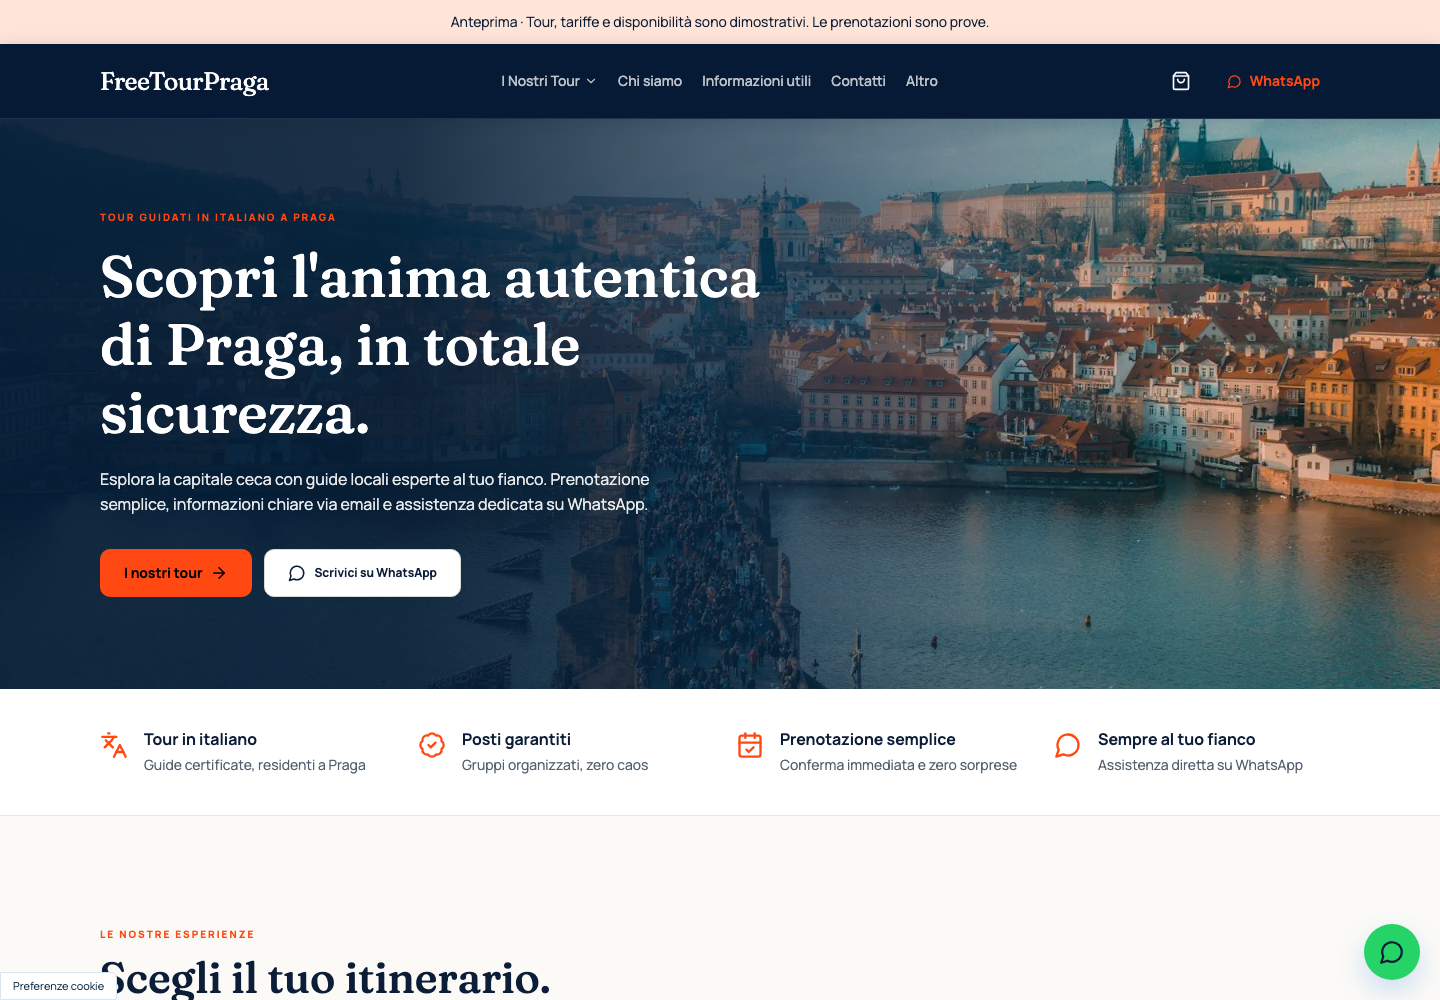
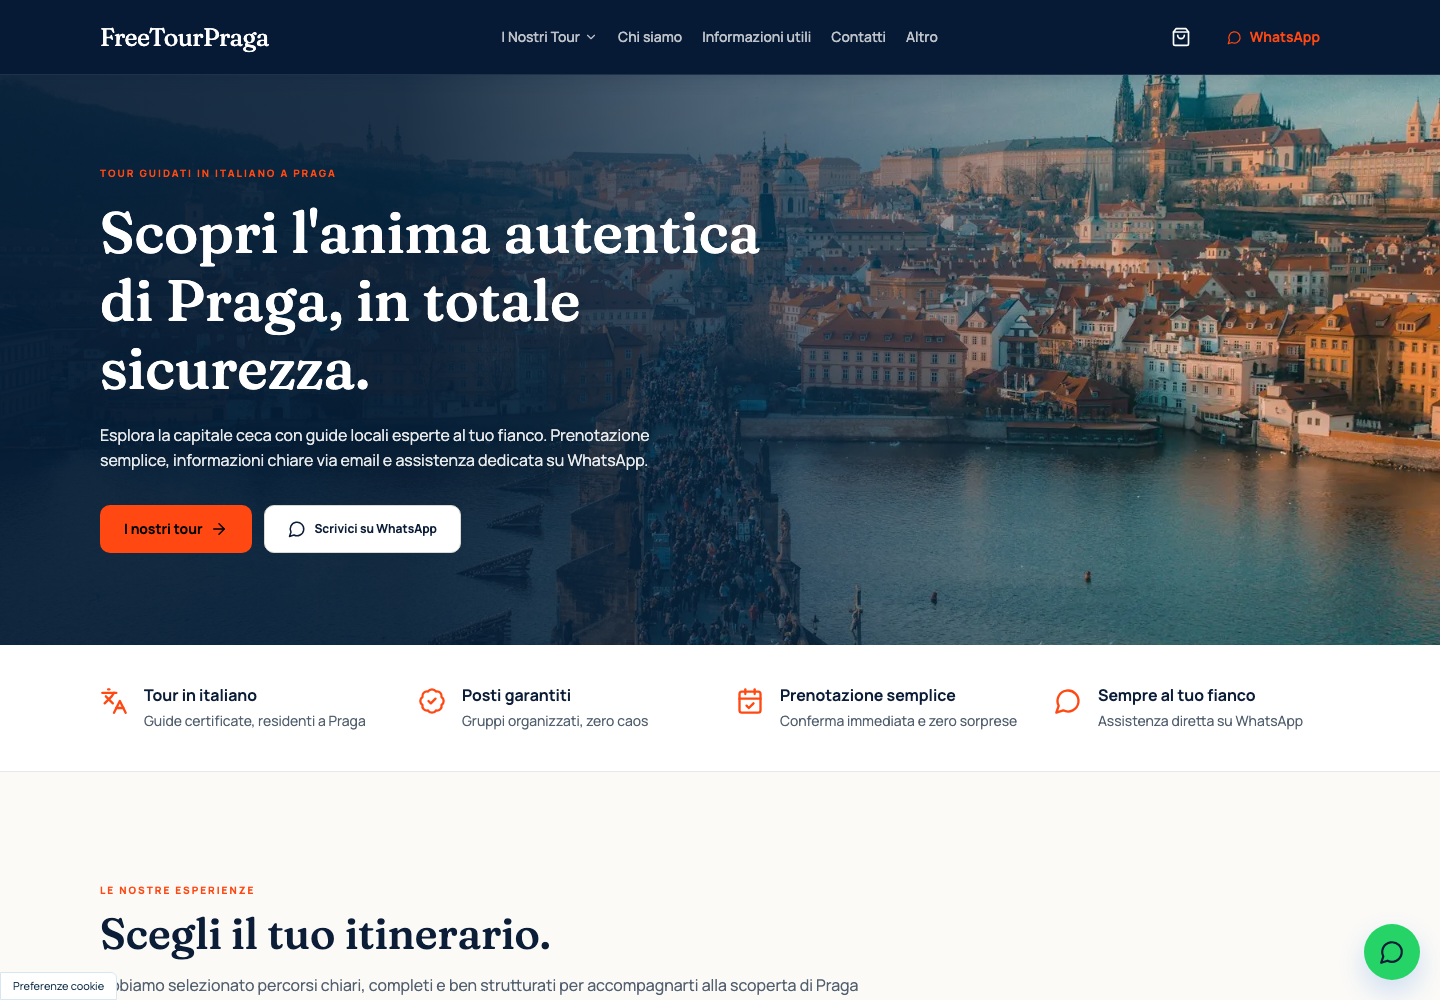
Aggiorna le schermate della vista cliente senza avvisi di anteprima

diff --git a/docs/STATO-CONSEGNA.md b/docs/STATO-CONSEGNA.md
@@ -56,3 +56,7 @@ Su richiesta del committente, rimossi la voce pubblica “Accedi o registrati”
 ## Accesso e verifica del gestionale
 
 Accesso staff: https://web-production-f3beeaff.up.railway.app/accesso; dashboard: https://web-production-f3beeaff.up.railway.app/admin. Il footer include il collegamento “Area staff”. Verificati sul dominio pubblico login, redirect delle richieste non autenticate, dieci sezioni (tour, prenotazioni, inserimento, calendario, CMS, pagine, impostazioni, richieste, email, audit), corrispondenza del catalogo pubblico con i tour pubblicati nell’admin e logout con revoca della sessione. Database PostgreSQL condiviso confermato; Stripe e SMTP restano da configurare dal committente.
+
+## Vista per la revisione del cliente
+
+Su richiesta del committente rimossi gli avvisi pubblici di anteprima e il messaggio di pagamento online in attivazione. Il checkout mostra solo i metodi disponibili. Restano attivi noindex, esclusione dai crawler e blocco dei pagamenti Stripe live, mentre il cliente può inserire i dati nel gestionale. Verificati online desktop, mobile, checkout e accesso staff dopo il rilascio `29cd15c`; CI superata. I dati persistenti non sono stati modificati.
